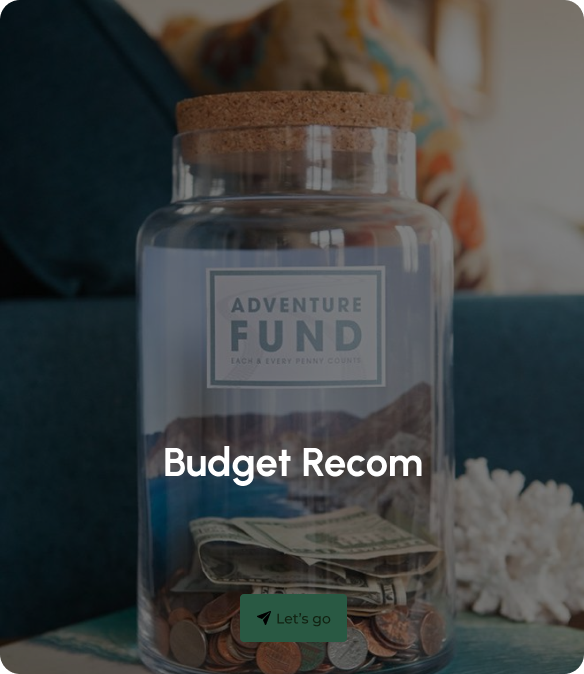
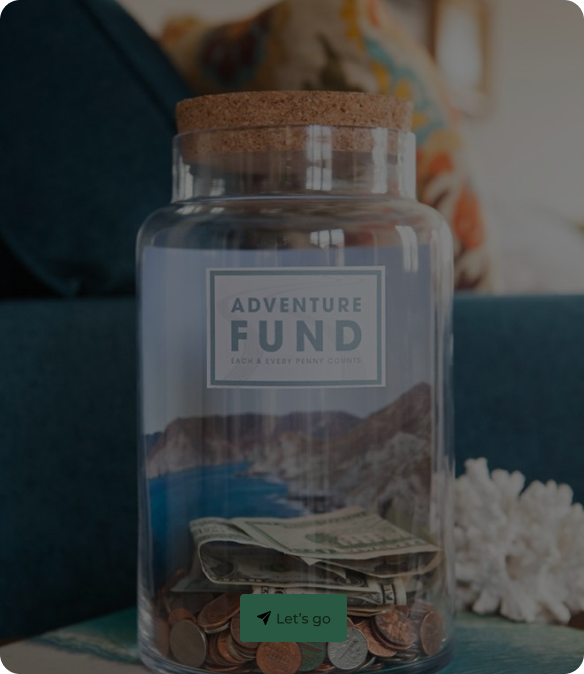
Budget plan

Changed region(s): [[0.2774, 0.6543, 0.7397, 0.7478]]

diff --git a/src/components/Budget.vue b/src/components/Budget.vue
@@ -1,73 +1,169 @@
 <template>
-  <div class="budget-card">
-    <img src="@/assets/budget.png" alt="Budget Feature" class="budget-image" />
-    <div class="overlay">
-      <h3 class="title">Budget Recom</h3>
-      <p class="desc">Analysis and recommend the best <br>place with your budget</p>
-      <button class="btn">Let's go</button>
+  <div class="budget-wrapper">
+    <div class="budget-header">
+      <h2 class="budget-title">Try our features</h2>
+      <p class="budget-subtitle">Enhancing your experiences with our latest features</p>
+    </div>
+
+    <div class="budget-cards">
+      <div
+        class="card"
+        v-for="(item, index) in features"
+        :key="index"
+        :class="{ active: index === 1,
+                  left: index === 0,
+                  right: index === 2
+         }"
+      >
+        <img :src="getImage(item.image)" alt="feature" class="card-img" />
+        <div v-if="index === 1" class="card-overlay">
+            <h3 class="card-title">{{ item.title }}</h3>
+            <p class="card-desc">{{ item.desc }}</p>
+            <button class="card-btn"><i class="ri-send-plane-fill"></i>Let's go</button>
+        </div>
+      </div>
     </div>
   </div>
 </template>
 
 <script setup>
-// static content only
+const features = [
+  { image: 'budget1.png' },
+  {
+    image: 'budget.png',
+    title: 'Budget Recom',
+    desc: 'Analysis and recommend the best place with your budget'
+  },
+  { image: 'budget2.png' }
+]
+
+const getImage = (img) => new URL(`../assets/${img}`, import.meta.url).href
 </script>
 
 <style scoped>
-.budget-card {
-  width: 400px;
-  height: 470px;
-  position: relative;
-  border-radius: 20px;
-  overflow: hidden;
-  box-shadow: 0 10px 20px rgba(0, 0, 0, 0.2);
+.budget-wrapper {
+  width: 100%;
+  text-align: center;
+  padding: 4rem 2rem;
+  background: white;
+  box-shadow: 0 10px 30px rgba(0, 0, 0, 0.1);
+  background: linear-gradient(to bottom, #fff, #e9fdf7);
 }
 
-.budget-image {
+.budget-header {
+  margin-bottom: 2rem;
+}
+
+.budget-title {
+  font-size: 2rem;
+  font-weight: bold;
+  color: #111;
+}
+
+.budget-subtitle {
+  font-size: 0.95rem;
+  color: #666;
+  margin-top: 0.5rem;
+}
+
+.budget-cards {
+  display: flex;
+  justify-content: center;
+  gap: 1.5rem;
+  flex-wrap: wrap;
+}
+
+.card {
+  position: relative;
+  width: 250px;
+  height: 350px;
+  border-radius: 16px;
+  overflow: hidden;
+  box-shadow: 0 5px 15px rgba(0, 0, 0, 0.2);
+  transition: transform 0.3s ease, z-index 0.3s;
+  opacity: 0.4;
+  filter: brightness(0.6);
+  z-index: 1;
+}
+
+.card.active {
+  transform: scale(1.1);
+  opacity: 1;
+  filter: brightness(1);
+  z-index: 3;
+}
+/* Left/right smaller + dimmed */
+.card.left,
+.card.right {
+  transform: scale(0.9);
+  opacity: 1;
+  margin-left: -50px;
+  margin-right: -50px;
+  filter: brightness(0.6);
+  z-index: 1;
+  
+}
+
+.card-img {
   width: 100%;
   height: 100%;
   object-fit: cover;
   display: block;
-  transition: transform 0.3s ease;
 }
 
-.overlay .desc{
+.card-overlay {
   position: absolute;
-  left: -1.2rem;
-  bottom: 30px;
-  width: 100%;
-  font-family: Cambria, Cochin, Georgia, Times, 'Times New Roman', serif;
-  padding: 30px 20px;
-  color: white;
-  text-align: center;
-  display: flex; 
-  flex-direction: column; 
-  justify-content: center;
+  bottom: 0;
+  left: 0;
+  right: 0;
+  height: 100%;
+  display: flex;
+  flex-direction: column;
+  justify-content: flex-end;
   align-items: center;
+  padding-bottom: 1.5rem;
+  background: linear-gradient(to top, rgba(0, 0, 0, 0.6), transparent);
+  color: #fff;
+  text-align: center;
+}
+.overlay-content {
+  display: flex;
+  flex-direction: column;
+  align-items: center;
+  gap: 0.3rem;
 }
 
-.title {
-  font-size: 22px;
+.card-title {
+  font-size: 1.1rem;
   font-weight: bold;
-  margin-bottom: 8px;
+  margin: 0;
 }
-/* .desc {
-  font-size: 14px;
-  margin-bottom: 16px;
-  line-height: 1.5;
-} */
-.btn {
-  background: #23c67c;
+
+.card-desc {
+  font-size: 0.7rem;
+  line-height: 1.4;
+  padding: 0 1rem;
+  color: #e0e0e0;
+  margin: 0;
+}
+
+
+.card-btn {
+  background: #00c99f;
   border: none;
-  padding: 8px 20px;
-  border-radius: 8px;
-  font-size: 13px;
-  color: #fff;
+  padding: 0.5rem;
+  border-radius: 0px;
+  color: #000000;
+  font-size: 0.5rem;
   cursor: pointer;
   transition: background 0.3s ease;
 }
+.card-btn i {
+  margin-right: 0.3rem;
+  color: black;
+}
 
-.btn:hover {
-  background: #1ab06b;
+.card-btn:hover {
+  background: #009f7a;
 }
 </style>

diff --git a/src/components/City.vue b/src/components/City.vue
@@ -72,11 +72,11 @@ onMounted(() => {
   background-position: center;
   background-repeat: no-repeat;
   background-image: url('@/assets/angkor-bg.png');
-  border-radius: 20px;
+  /* border-radius: 20px; */
   overflow: hidden;
   padding: 2rem;
   box-shadow: 0 20px 50px rgba(0, 0, 0, 0.2);
-  width: 90%;
+  width: 100%;
   height: 38rem;
   margin: 0 auto;
   color: white;
@@ -98,7 +98,7 @@ onMounted(() => {
 
 .city-left h1 {
   font-size: 4rem;
-  margin-top: 0;
+  margin-top: 20px;
   font-weight: bold;
 
   

diff --git a/src/views/LandingPage.vue b/src/views/LandingPage.vue
@@ -1,6 +1,7 @@
 <script setup>
 import Newplace from '@/components/Newplace.vue'
 import City from '@/components/City.vue'
+import Budget from '@/components/Budget.vue';
 </script>
 
 <template>
@@ -49,6 +50,7 @@ import City from '@/components/City.vue'
         <h2 class="subtitle">WHY HESITATING</h2>
         <div class="newcity-section">
           <City />
+          <Budget />
         </div>
       </div>
     </div>
